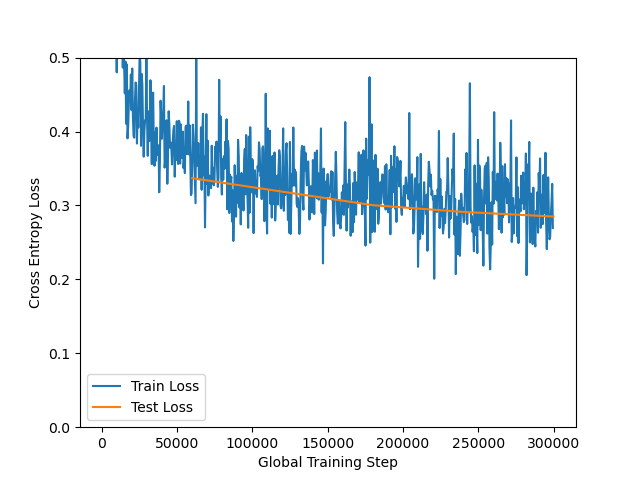
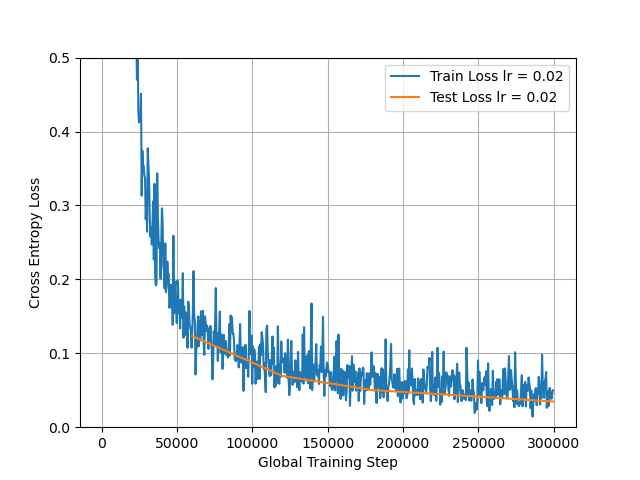
done with task 2b

diff --git a/src/task2.py b/src/task2.py
@@ -10,9 +10,17 @@ from trainer import Trainer
 torch.random.manual_seed(0)
 np.random.seed(0)
 
-# Load the dataset and print some stats
-batch_size = 64
+TASK = 0
+names = {0: "a", 1: "b", 2: "c", 3: "d"}
+lbl_ext = " SGD" if TASK == 1 else ""
 
+# Hyperparameters
+batch_size = 64
+learning_rate = 0.02 if TASK == 0 else 0.001
+num_epochs = 5
+loss_function = torch.nn.CrossEntropyLoss()
+
+# Load the dataset and print some stats
 image_transform = torchvision.transforms.Compose([
     torchvision.transforms.Resize((32, 32)),
     torchvision.transforms.ToTensor(),
@@ -24,11 +32,7 @@ example_images, _ = next(iter(dataloader_train))
 print(f"The tensor containing the images has shape: {example_images.shape} (batch size, number of color channels, height, width)",
       f"The maximum value in the image is {example_images.max()}, minimum: {example_images.min()}", sep="\n\t")
 
-
 def create_model():
-    """
-        Initializes the mode. Edit the code below if you would like to change the model.
-    """
     input_channels = example_images.shape[1]
     model = nn.Sequential(
         nn.Conv2d(input_channels, 32, 5, stride=1, padding=2), nn.ReLU(),
@@ -37,64 +41,37 @@ def create_model():
         nn.MaxPool2d(2, stride=2),
         nn.Conv2d(64, 128, 3, stride=1, padding=1), nn.ReLU(),
         nn.MaxPool2d(2, stride=2),
-        nn.Flatten(),  # Flattens the image from shape (batch_size, C, Height, width) to (batch_size, C*height*width)
-        nn.Linear(16, 64),
+        nn.Flatten(),  
+        nn.Linear(2048, 64),
         nn.Linear(64, 10)
-        # No need to include softmax, as this is already combined in the loss function
     )
-    # Transfer model to GPU memory if a GPU is available
     model = utils.to_cuda(model)
     return model
 
-
-model = create_model()
-
-
-# Test if the model is able to do a single forward pass
-example_images = utils.to_cuda(example_images)
-output = model(example_images)
-print("Output shape:", output.shape)
-expected_shape = (batch_size, 10)  # 10 since mnist has 10 different classes
-assert output.shape == expected_shape,    f"Expected shape: {expected_shape}, but got: {output.shape}"
+def create_train_plot(lr, optim_class):
+    model = create_model()
+    optimizer = optim_class(model.parameters(), lr=lr)
+    trainer = Trainer(model, dataloader_train, dataloader_test, batch_size, loss_function, optimizer)
+    train_loss_dict, test_loss_dict = trainer.train(num_epochs)
+    utils.plot_loss(train_loss_dict, label="Train Loss"+lbl_ext+" lr = "+str(lr))
+    utils.plot_loss(test_loss_dict, label="Test Loss"+lbl_ext+" lr = "+str(lr))
+    return model
 
 
-# Hyperparameters
-learning_rate = .02
-num_epochs = 5
+model_1 = create_train_plot(learning_rate, torch.optim.SGD)
 
+if TASK == 1:
+    create_train_plot(0.02, torch.optim.SGD)
+    create_train_plot(learning_rate, torch.optim.Adam)
 
-# Use CrossEntropyLoss for multi-class classification
-loss_function = torch.nn.CrossEntropyLoss()
+if TASK == 0: plt.ylim([0, .5])
 
-# Define optimizer (Stochastic Gradient Descent)
-optimizer = torch.optim.SGD(model.parameters(),
-                            lr=learning_rate)
-
-
-trainer = Trainer(
-    model=model,
-    dataloader_train=dataloader_train,
-    dataloader_test=dataloader_test,
-    batch_size=batch_size,
-    loss_function=loss_function,
-    optimizer=optimizer
-)
-train_loss_dict, test_loss_dict = trainer.train(num_epochs)
-
-
-# We can now plot the training loss with our utility script
-
-# Plot loss
-utils.plot_loss(train_loss_dict, label="Train Loss")
-utils.plot_loss(test_loss_dict, label="Test Loss")
-# Limit the y-axis of the plot (The range should not be increased!)
-plt.ylim([0, .5])
-plt.legend()
 plt.xlabel("Global Training Step")
 plt.ylabel("Cross Entropy Loss")
-plt.savefig(utils.image_output_dir.joinpath("task2a_plot.png"))
+plt.legend(bbox_to_anchor=(0.9, 0.4325)) if TASK == 1 else plt.legend()
+plt.grid()
+plt.savefig(utils.image_output_dir.joinpath("task2"+names[TASK]+"_plot.png"))
 plt.show()
 
-final_loss, final_acc = utils.compute_loss_and_accuracy(
-    dataloader_test, model, loss_function)
+final_loss, final_acc = utils.compute_loss_and_accuracy(dataloader_test, model_1, loss_function)
 print(f"Final Test loss: {final_loss}. Final Test accuracy: {final_acc}")

diff --git a/README.md b/README.md
@@ -122,7 +122,6 @@ network takes in an 32 × 32 image.
 |   5   | Linear(in_features=64, out_features=10)     | 10 | Softmax |
 <p align="center"><b>Table 1</b>: Architecture of a simple convolutional neural network.</p>
 
-
 **Answer:**
 
 The weight and bias tensors of Conv2D layers have shapes 
@@ -180,16 +179,45 @@ Shortly summarize your reasoning.
 
 **Answer:**
 
+The final validation loss was $0.0348$, and the final validation accuracy was $0.9894$. [Figure 1](#figure-1) shows the training and validation losses during training.
+<br>*Note: test and validation are used interchangably in these tasks.*
+
+<h3 align="center">Task 2a Train and Test Losses</h3>
+<a name="figure-1"></a>
+<p align="center">
+    <img src="https://github.com/Jesperoka/tdt4195/blob/assignment_5/src/image_processed/task2a_plot.png?raw=true" width=350>
+</p>
+<p align="center"><b>Figure 1: </b>Five epochs of training is enough to learn the relatively simple MNIST dataset.</p>
+
+Because the training and validation losses are closely aligned, we conclude that there is no evidence of overfitting. Furthermore the validation loss was still decreasing at the end of training.
 
 <h3 align="left">b)</h3>
 
 **Question:**
 
+The optimizer in pytorch is the method we use to update our gradients. Till now, we have
+used standard stochastic gradient descent (SGD). Understanding what the different optimizers do
+is out of the scope of this course, but we want to make you aware that they exist. 
 
+Adam is one of the most popular optimizers currently. Change the SGD optimizer to Adam (use
+torch.optim.Adam instead of torch.optim.SGD), and train your model from scratch.
+
+Use a learning rate of 0.001.
+
+Plot the training/validation loss from both models (the model with Adam and the one with SGD)
+in the same graph and include this in your report. (Note, you should probably change the plt.ylim
+argument to [0, 0.1]).
 
 **Answer:**
 
+It wasn't quite clear weather SGD should be run with the same learning rate as Adam, or if we were meant to use the learning rate from before, so [Figure 2](#figure-2) includes both cases.
 
+<h3 align="center">Task 2b Comparison of Optimizers and Learning Rates</h3>
+<a name="figure-2"></a>
+<p align="center">
+    <img src="https://github.com/Jesperoka/tdt4195/blob/assignment_5/src/image_processed/task2b_plot.png?raw=true" width=350>
+</p>
+<p align="center"><b>Figure 2: </b>Train and test losses for the same model using SGD with learning rates of 0.02 and 0.001, and Adam with a learning rate of 0.001.</p>
 
 <h3 align="left">c)</h3>
 
@@ -283,9 +311,3 @@ Shortly summarize your reasoning.
 **Answer:**
 
 
-<h3 align="center">Temp</h3>
-<a name="figure-X"></a>
-<p align="center">
-    <img src="https://github.com/Jesperoka/tdt4195/blob/assignment_4/src/images/duck.jpeg?raw=true" width=350>
-</p>
-<p align="center"><b>Figure Xa: </b>Temp.</p>
